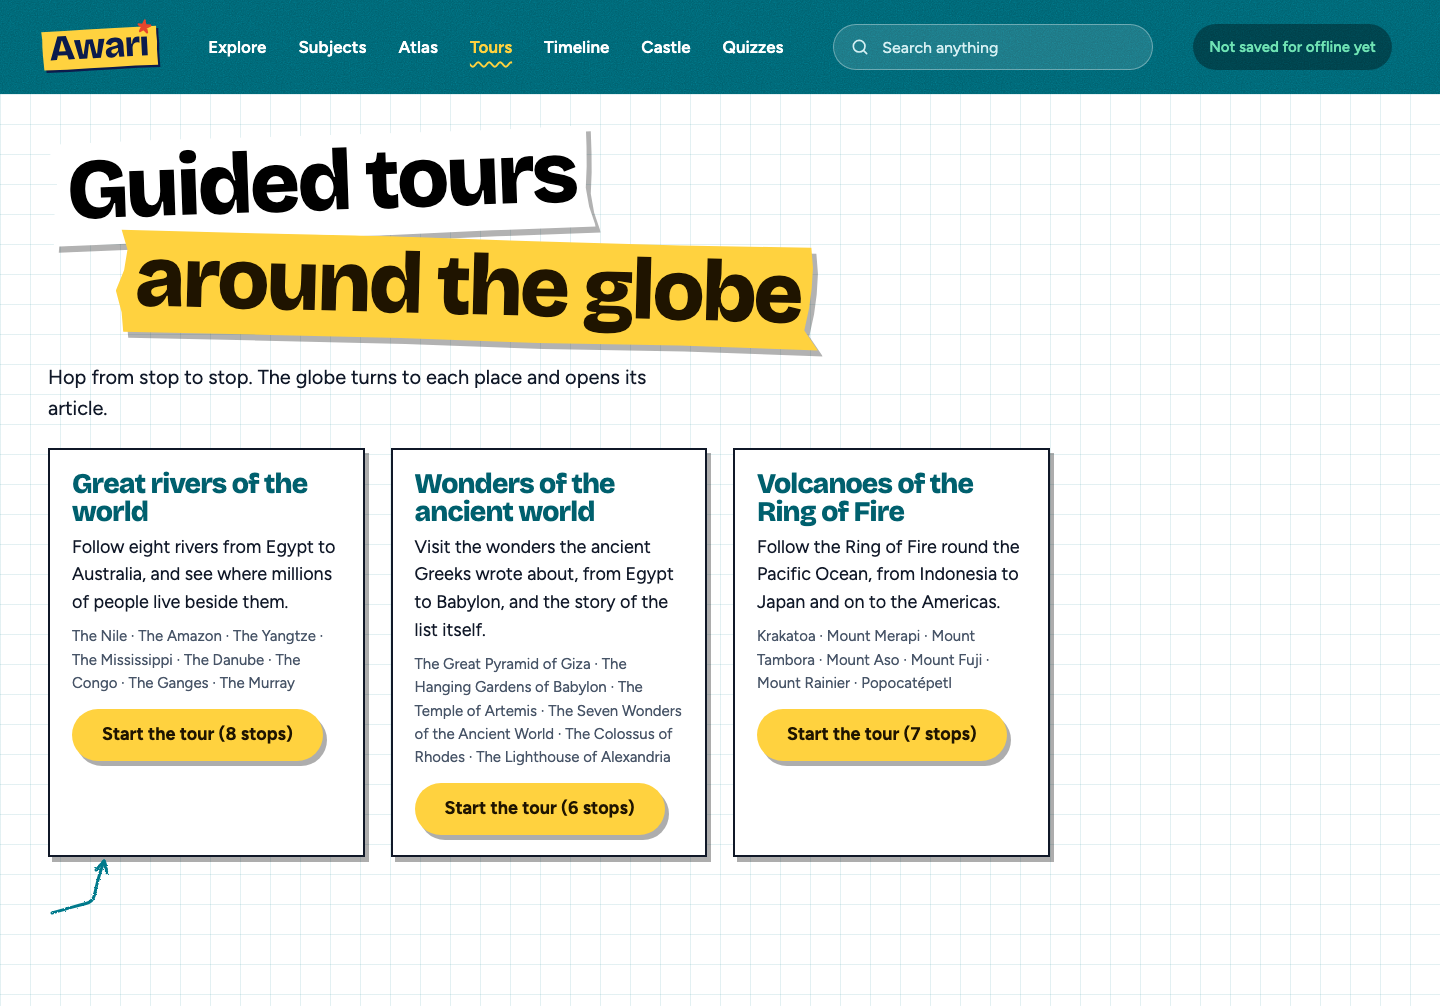
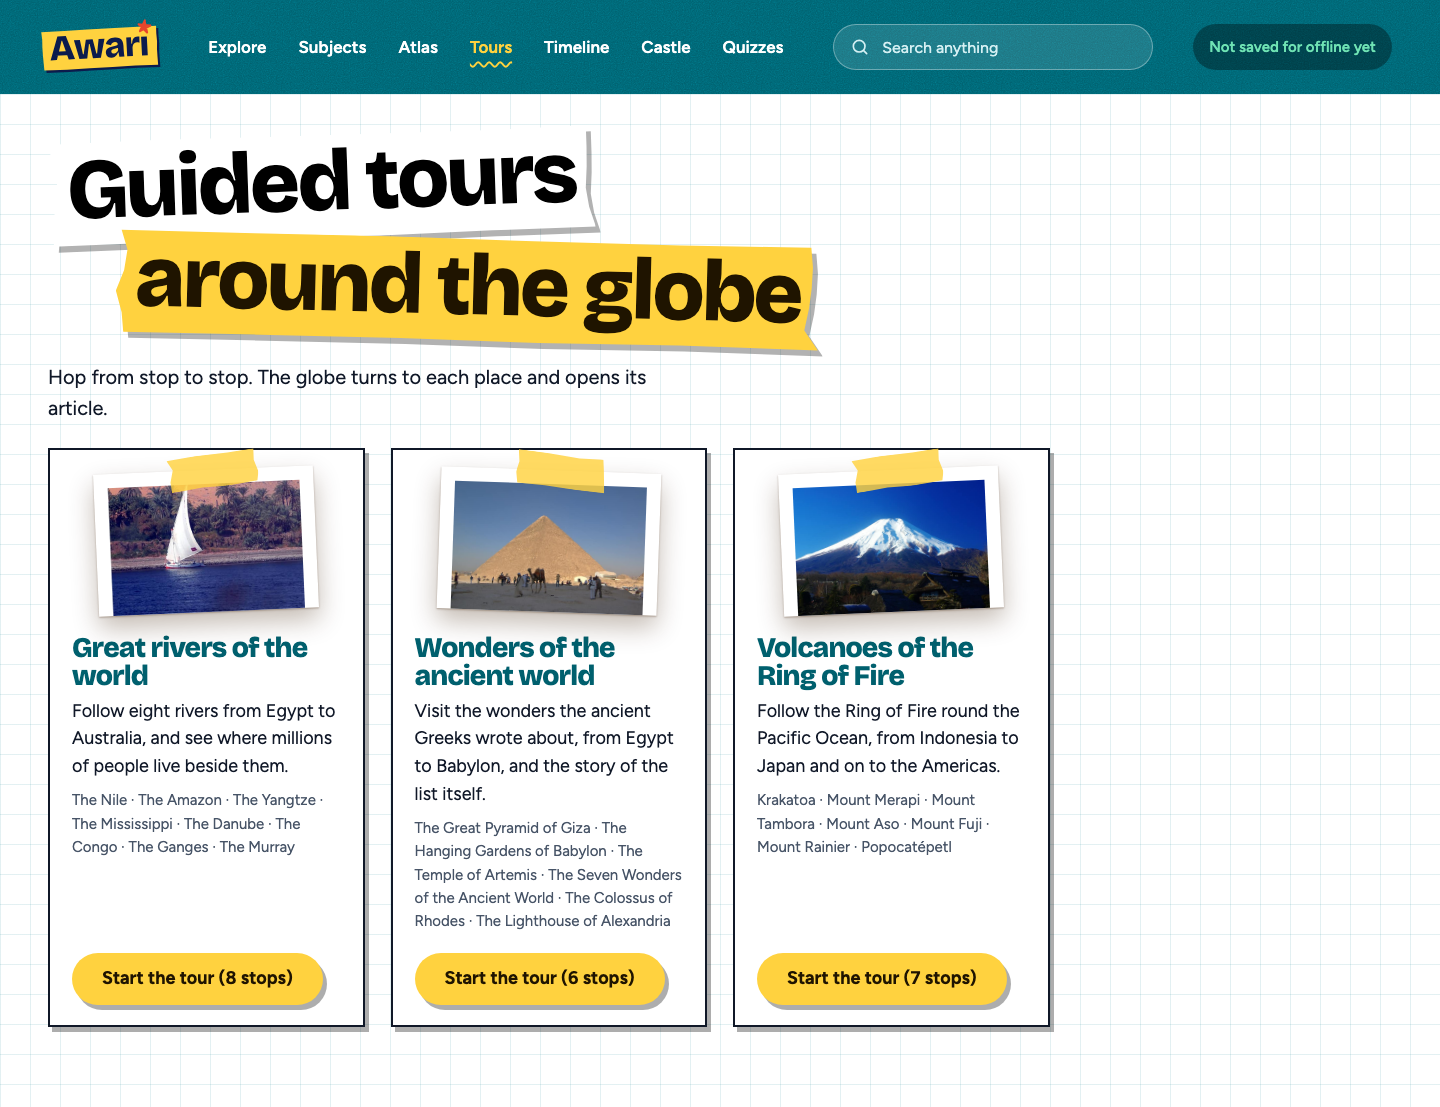
22-review-3 10: tour cards with prints and equal height; tour board without full-screen gap

Changed region(s): [[0.0312, 0.1233, 0.75, 0.9553], [0.5, 0.4006, 0.75, 0.7704], [0.0, 0.0, 1.0, 0.0924]]

diff --git a/scripts/check-tours-layout.ts b/scripts/check-tours-layout.ts
@@ -1,0 +1,51 @@
+/**
+ * Measures the tour screens in a real browser (22-review-3 Req 17, 18): the
+ * three cards on /tours have equal height and a print each, and on a tour
+ * page the stop strip sits close under the panel with no blank gap.
+ *
+ *   npx tsx scripts/check-tours-layout.ts [baseUrl]
+ */
+import { chromium } from 'playwright';
+
+const base = process.argv[2] ?? 'http://localhost:5173';
+const browser = await chromium.launch();
+let failed = false;
+const page = await browser.newPage({ viewport: { width: 1440, height: 900 } });
+await page.goto(`${base}/tours`, { waitUntil: 'networkidle', timeout: 30_000 });
+await page.waitForSelector('.tours__card', { timeout: 15_000 });
+const cards = await page.evaluate(() =>
+  [...document.querySelectorAll('.tours__card')].map((c) => ({
+    h: Math.round(c.getBoundingClientRect().height),
+    img: c.querySelectorAll('img').length,
+  })),
+);
+console.log('cards', JSON.stringify(cards));
+if (new Set(cards.map((c) => c.h)).size !== 1 || cards.some((c) => c.img !== 1)) {
+  failed = true;
+}
+for (const id of ['rivers', 'wonders', 'volcanoes']) {
+  await page.goto(`${base}/tours/${id}`, { waitUntil: 'networkidle', timeout: 30_000 });
+  await page.waitForSelector('.tour__stops', { timeout: 15_000 });
+  const m = await page.evaluate(() => {
+    const card = document.querySelector('article')?.getBoundingClientRect();
+    const stops = document.querySelector('.tour__stops')?.getBoundingClientRect();
+    const globe = document.querySelector('svg.globe')?.getBoundingClientRect();
+    const lowest = Math.max(card?.bottom ?? 0, globe?.bottom ?? 0);
+    const board = document.querySelector('.tour__board')?.getBoundingClientRect();
+    return {
+      // Blank space inside the dark board under its lowest content (the card may overhang the edge).
+      gap: board ? Math.max(0, Math.round(board.bottom - lowest)) : -1,
+      toStrip: stops ? Math.round(stops.top - lowest) : -1,
+      overflow: document.documentElement.scrollWidth - innerWidth,
+    };
+  });
+  console.log(id, JSON.stringify(m));
+  if (m.gap > 60 || m.overflow > 0) {
+    failed = true;
+  }
+}
+await browser.close();
+if (failed) {
+  console.error('tours layout check failed');
+  process.exit(1);
+}

diff --git a/src/features/tours/tours.ts b/src/features/tours/tours.ts
@@ -19,6 +19,8 @@ export interface Tour {
   id: string;
   title: string;
   blurb: string;
+  /** A picture from the tour's own first article, for the card's print. */
+  cover: { file: string; alt: string };
   stops: readonly TourStop[];
 }
 
@@ -26,6 +28,7 @@ export const TOURS: readonly Tour[] = [
   {
     id: 'rivers',
     title: 'Great rivers of the world',
+    cover: { file: 'img/earth-nile.jpg', alt: 'Dhows traversing the Nile near Aswan' },
     blurb: 'Follow eight rivers from Egypt to Australia, and see where millions of people live beside them.',
     stops: [
       { article: 'earth/nile', title: 'The Nile', place: 'near Luxor, Egypt', lat: 25.7, lon: 32.64 },
@@ -41,6 +44,7 @@ export const TOURS: readonly Tour[] = [
   {
     id: 'wonders',
     title: 'Wonders of the ancient world',
+    cover: { file: 'img/ancient-great-pyramid-of-giza.jpg', alt: 'The Great Pyramid of Giza' },
     blurb: 'Visit the wonders the ancient Greeks wrote about, from Egypt to Babylon, and the story of the list itself.',
     stops: [
       { article: 'ancient/great-pyramid-of-giza', title: 'The Great Pyramid of Giza', place: 'Giza, Egypt', lat: 29.98, lon: 31.13 },
@@ -54,6 +58,7 @@ export const TOURS: readonly Tour[] = [
   {
     id: 'volcanoes',
     title: 'Volcanoes of the Ring of Fire',
+    cover: { file: 'img/earth-mount-fuji.jpg', alt: 'Mount Fuji, a volcano in Japan' },
     blurb: 'Follow the Ring of Fire round the Pacific Ocean, from Indonesia to Japan and on to the Americas.',
     stops: [
       { article: 'earth/krakatoa', title: 'Krakatoa', place: 'Sunda Strait, Indonesia', lat: -6.1, lon: 105.42 },

diff --git a/src/features/tours/tours.css b/src/features/tours/tours.css
@@ -1,7 +1,10 @@
 /* Guided tours (20-tours). */
+.tour__board.atlas-board,
 .tour__board {
   position: relative;
-  padding: 24px var(--gutter) 64px;
+  padding: 24px var(--gutter) 20px;
+  /* The Atlas board fills the screen; a tour board only needs its content (22-review-3 Req 18). */
+  min-height: 0;
 }
 
 .tour__globe {
@@ -21,7 +24,7 @@
 }
 
 .tour__paper {
-  padding: 28px var(--gutter) 56px;
+  padding: 20px var(--gutter) 56px;
   color: var(--ink);
 }
 
@@ -77,7 +80,7 @@
   position: relative;
   z-index: 2;
   /* The card crosses the torn edge into the paper (design rule 5). */
-  margin-bottom: -90px;
+  margin-bottom: -40px;
   padding: 22px 26px 24px;
   background: var(--paper);
   color: var(--ink);
@@ -157,6 +160,7 @@
 .tours__list {
   display: grid;
   grid-template-columns: repeat(auto-fill, minmax(300px, 1fr));
+  align-items: stretch;
   gap: 22px 26px;
   margin: 24px 0 0;
   padding: 0;
@@ -190,7 +194,17 @@
 
 .tours__card .btn {
   align-self: flex-start;
-  margin-top: 6px;
+  margin-top: auto;
+}
+
+.tours__print {
+  align-self: center;
+  max-width: 100%;
+  margin-bottom: 14px;
+}
+
+.tours__card p.tours__stops {
+  margin-bottom: 12px;
 }
 
 .tourbar {

diff --git a/src/features/tours/TourScreen.tsx b/src/features/tours/TourScreen.tsx
@@ -174,8 +174,16 @@ export function ToursList() {
       />
       <p className="tours__lead">Hop from stop to stop. The globe turns to each place and opens its article.</p>
       <ul className="tours__list">
-        {TOURS.map((t) => (
+        {TOURS.map((t, i) => (
           <li key={t.id} className="tours__card">
+            <Print
+              className="tours__print"
+              src={packUrl(t.cover.file)}
+              alt={t.cover.alt}
+              width={220}
+              tilt={i % 2 === 0 ? -2.5 : 2}
+              tape={[{ left: '34%', width: 90, tilt: i % 2 === 0 ? -5 : 5, tone: 'yellow' }]}
+            />
             <h2>{t.title}</h2>
             <p>{t.blurb}</p>
             <p className="tours__stops">{t.stops.map((s) => s.title).join(' · ')}</p>
@@ -183,7 +191,6 @@ export function ToursList() {
           </li>
         ))}
       </ul>
-      <Doodle kind="arrow" seed="tours" size={60} color="var(--teal-ink)" className="crowding tours__arrow" />
     </section>
   );
 }

diff --git a/src/features/tours/tours.component.test.tsx b/src/features/tours/tours.component.test.tsx
@@ -17,6 +17,20 @@ describe('guided tours on the committed packs (20-tours)', () => {
     }
   });
 
+  it('gives every tour card its own print, from a picture that exists (22-review-3 Req 17)', () => {
+    for (const t of TOURS) {
+      expect(existsSync(`public/packs/${t.cover.file}`), t.cover.file).toBe(true);
+      expect(t.cover.alt.length).toBeGreaterThan(5);
+    }
+    const { container } = render(<ToursList />);
+    const cards = container.querySelectorAll('.tours__card');
+    expect(cards).toHaveLength(TOURS.length);
+    for (const c of cards) {
+      expect(c.querySelectorAll('img')).toHaveLength(1);
+    }
+    expect(container.querySelector('.tours__arrow')).toBeNull();
+  });
+
   it('lists the three tours with their stop counts. _Req 1_', () => {
     render(<ToursList />);
     expect(screen.getAllByRole('heading', { level: 2 }).map((h) => h.textContent)).toEqual([

diff --git a/docs/kiro-log.md b/docs/kiro-log.md
@@ -150,3 +150,4 @@ running the command itself.
 | 2026-11-13 14:15 | vitest src/features/home and castle, tsc, eslint; Home opened at 1440 and 390 (0 px overflow); fresh screenshot read | 22-review-3 7 | The castle panel is now a drawn door with the wing's name (CastleDoor.tsx), never a photograph, so it cannot show the flag poster, the hero Earth or an Ethiopian castle for another continent. no-duplicate-photos.property.test.tsx renders Home on six days and fails on any repeated image (Property 3). Hero note arrows checked in the screenshot: they leave below the note text and end on the Earth |
 | 2026-11-13 14:50 | vitest run (365 pass), tsc, eslint, credits; scripts/packs/drop-empty-sections.ts (33 articles lost a heading with no content, such as "Cities" that only introduced a missing table), scripts/packs/drop-stale-population.ts (10 country articles lost a sentence giving the country's own headcount as another number, with their notes and 2 quiz questions), rebuild-home.ts | 22-review-3 8 | One population figure per country: the facts card (Wikidata, with year). The rule is src/lib/text/population.ts and src/lib/text/sections.ts isEmptySection; splitSections applies it on build and on the device; `npm run packs` runs the population step. Test empty-sections.property.test.ts (Property 6). First attempt rewrote 105 files by re-joining sentences and was reverted; the final script touches only paragraphs with a removed sentence |
 | 2026-11-13 15:10 | vitest run (all pass), tsc, eslint; /search?q=rhodes screenshot read at 1440 | 22-review-3 9 | snippetOf and withoutCoordinates in src/features/search/search.ts: no coordinate strings, a snippet starts at a word and ends at a full stop or at a word with an ellipsis. snippet.property.test.ts (Property 4) runs on random text and on every article summary in the packs |
+| 2026-11-13 15:55 | vitest run (370 pass), tsc, eslint, credits; new scripts/check-tours-layout.ts in a real browser: 3 cards of equal height (580 px) each with one print, 0 px overflow, 0 to 20 px of blank board under the lowest content on all three tours; /tours and /tours/rivers screenshots read | 22-review-3 10 | Tour cards have a print each from the tour's first article (Nile, Great Pyramid, Fuji), equal height with the button pinned to the bottom, and the pointing-at-nothing doodle is gone. The tour board no longer inherits the Atlas board's full-screen min-height, which left the stop strip about 130 px low. The outline around the globe is the same hand-drawn globe line as on the Atlas and was judged centred in the screenshot |

diff --git a/.kiro/specs/22-review-3/tasks.md b/.kiro/specs/22-review-3/tasks.md
@@ -17,7 +17,7 @@ One task per item. Each is built by `awari-builder`, checked by `awari-design-re
 - [x] 8. Population: one figure with year and source in every country article; drop empty
       sections in the build (Property 6). _Req 11, 12_
 - [x] 9. Search snippets (Property 4). _Req 13_
-- [ ] 10. Tours: equal cards, a print each, globe outline centred, no blank gap. _Req 17, 18_
+- [x] 10. Tours: equal cards, a print each, globe outline centred, no blank gap. _Req 17, 18_
 - [ ] 11. Castle wings: a print per wing, doors fill the card, the Asia page. _Req 19_
 - [ ] 12. Quiz card detail and disabled-button contrast; wildlife single-subject prints;
       Nigeria lead photo. _Req 20-22_
